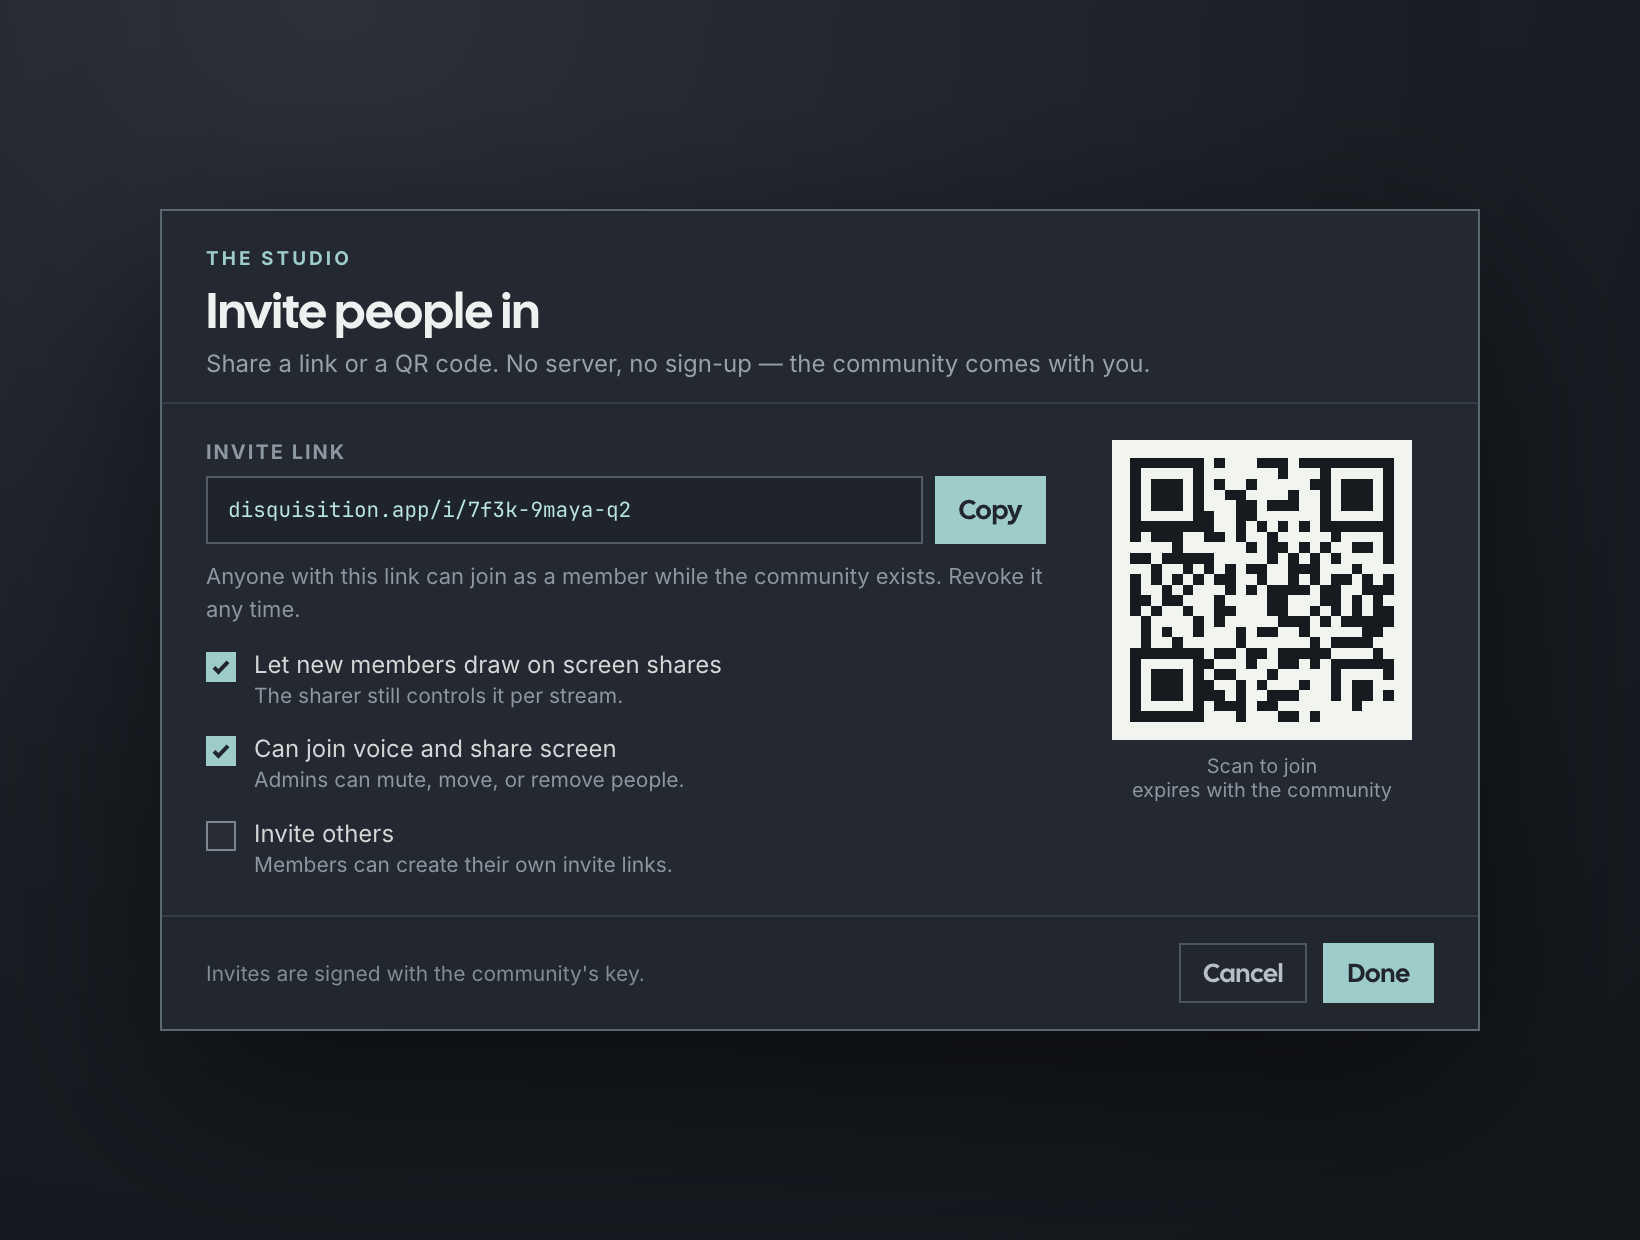
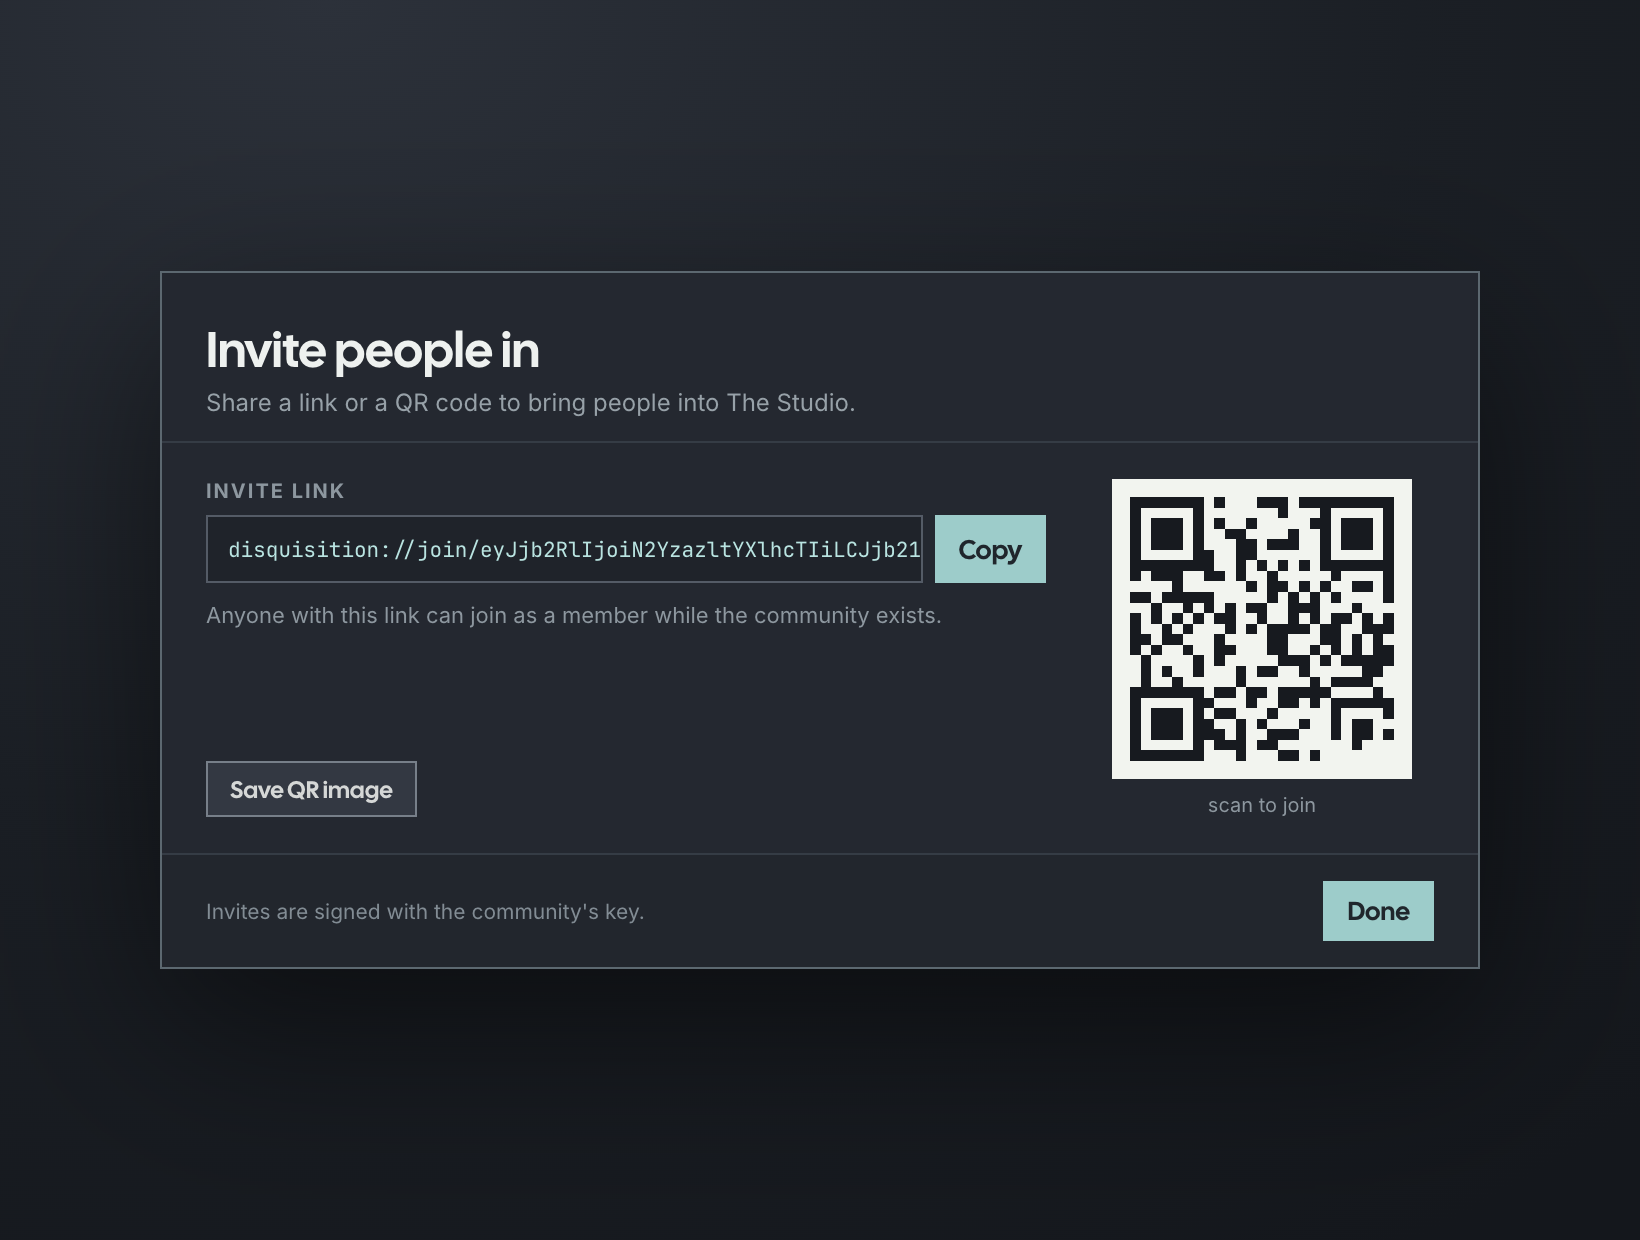
Match the site's app mockups to the shipped desktop app
The desktop redesign in #128 shipped a slightly different app from the
mockups. Show the connected top bar without the relay address, OWNER/ADMIN
tags with the app's presence labels, and the invite dialog without the
per-invite permission checkboxes the app does not have. Re-render the hero
and invite screenshots.

Changed region(s): [[0.1244, 0.1839, 0.8707, 0.7048], [0.1244, 0.7048, 0.9018, 0.8274]]

diff --git a/src/web/design/app-mockups.html b/src/web/design/app-mockups.html
@@ -416,11 +416,11 @@
   .member .info { min-width: 0; flex: 1; }
   .member .nn { font-size: 12px; color: #d7dcda; font-weight: 600; white-space: nowrap; display: flex; align-items: center; gap: 4px; }
   .member .role { font-size: 8px; text-transform: uppercase; letter-spacing: .06em; color: #20262c; background: #b9c3c7; padding: 1px 3px; font-weight: 800; }
-  .member .role.owner { background: var(--accent); }
-  .member .role.mod { background: #d9c58a; }
+  .member .role.owner { background: #a5dfdc; }
+  .member .role.admin { background: #f2d27a; }
   .member .sub { font-size: 10px; color: #7f8891; white-space: nowrap; display: flex; align-items: center; gap: 4px; margin-top: 1px; }
-  .member .sub.sharing { color: #ffb3b3; }
-  .member .sub.voice { color: #9dccca; }
+  .member .sub.sharing { color: #ec97b7; }
+  .member .sub.voice { color: #8fc7c2; }
   .member .state { color: #7b848d; display: flex; gap: 5px; }
   .member .state svg { width: 12px; height: 12px; }
 
@@ -463,7 +463,9 @@
   .dialog-header h2 { font-family: CalSans, sans-serif; font-weight: 400; font-size: 25px; color: #eef1ef; margin: 4px 0 3px; }
   .dialog-header p { margin: 0; font-size: 12px; color: #97a1a8; }
   .dialog-body { display: flex; gap: 22px; padding: 18px 22px; }
-  .dialog-body .left { flex: 1; min-width: 0; }
+  .dialog-body .left { flex: 1; min-width: 0; display: flex; flex-direction: column; align-items: flex-start; }
+  .dialog-body .left .linkrow { align-self: stretch; }
+  .save-qr { margin-top: auto; height: 28px; font-size: 12px; }
   .label { font-size: 10px; letter-spacing: .1em; text-transform: uppercase; color: #8d979f; font-weight: 700; margin-bottom: 6px; }
   .linkrow { display: flex; gap: 6px; }
   .linkrow .link {
@@ -474,16 +476,6 @@
   }
   .linkrow .btn { height: 34px; }
   .hint { font-size: 11px; color: #8d979f; margin-top: 8px; line-height: 1.5; }
-  .perm { display: flex; align-items: flex-start; gap: 9px; margin-top: 12px; }
-  .checkbox {
-    width: 15px; height: 15px; flex: 0 0 auto; margin-top: 1px;
-    border: 1px solid #7c8791; background: #282c34;
-    display: flex; align-items: center; justify-content: center;
-  }
-  .checkbox.on { background: var(--accent); border-color: var(--accent); color: #20262c; }
-  .checkbox svg { width: 10px; height: 10px; }
-  .perm .pt { font-size: 12px; color: #d3d8d6; }
-  .perm .ps { font-size: 10.5px; color: #8d979f; margin-top: 1px; line-height: 1.4; }
   .qr-wrap { flex: 0 0 172px; display: flex; flex-direction: column; align-items: center; gap: 7px; }
   .qr { width: 150px; height: 150px; background: #f2f4ef; padding: 9px; }
   .qr-grid { width: 100%; height: 100%; display: grid; grid-template-columns: repeat(25, 1fr); grid-template-rows: repeat(25, 1fr); }
@@ -519,10 +511,9 @@
     </div>
     <div class="connectbar">
       <div class="field">maya <span class="caret"></span></div>
-      <button class="btn primary">Connect</button>
-      <button class="btn ghost">User Settings</button>
+      <button class="btn">Disconnect</button>
       <div class="spacer"></div>
-      <div class="conn"><span class="dot"></span> Connected <span style="color:#4f5c60">·</span> relay.disquisition.app</div>
+      <div class="conn"><span class="dot"></span> Connected</div>
     </div>
     <div class="shell">
       <aside class="sidebar">
@@ -695,15 +686,15 @@
 
           <aside class="members">
             <div class="group">Online <span>— 6</span></div>
-            <div class="member"><span class="av maya">M</span><div class="info"><div class="nn">maya <span class="role owner">owner</span></div><div class="sub voice">in voice · hosting</div></div></div>
-            <div class="member"><span class="av june">J</span><div class="info"><div class="nn">june <span class="role mod">mod</span></div><div class="sub sharing">sharing screen · drawing</div></div></div>
-            <div class="member"><span class="av theo">T</span><div class="info"><div class="nn">theo</div><div class="sub voice">in voice</div></div><div class="state"><svg viewBox="0 0 12 12" fill="none" stroke="currentColor" stroke-width="1.3"><rect x="4" y="1" width="4" height="6" rx="2"/><path d="M2.5 5.5a3.5 3.5 0 007 0M6 9v2"/></svg></div></div>
-            <div class="member"><span class="av kofi">K</span><div class="info"><div class="nn">kofi</div><div class="sub voice">in voice</div></div></div>
-            <div class="member"><span class="av priya">P</span><div class="info"><div class="nn">priya</div><div class="sub">watching</div></div></div>
-            <div class="member"><span class="av sam">S</span><div class="info"><div class="nn">sam</div><div class="sub">watching</div></div></div>
+            <div class="member"><span class="av maya">M</span><div class="info"><div class="nn">maya <span class="role owner">owner</span></div><div class="sub voice">in voice · Lounge</div></div></div>
+            <div class="member"><span class="av june">J</span><div class="info"><div class="nn">june <span class="role admin">admin</span></div><div class="sub sharing">sharing screen</div></div></div>
+            <div class="member"><span class="av theo">T</span><div class="info"><div class="nn">theo</div><div class="sub voice">in voice · Lounge</div></div><div class="state"><svg viewBox="0 0 12 12" fill="none" stroke="currentColor" stroke-width="1.3"><rect x="4" y="1" width="4" height="6" rx="2"/><path d="M2.5 5.5a3.5 3.5 0 007 0M6 9v2"/></svg></div></div>
+            <div class="member"><span class="av kofi">K</span><div class="info"><div class="nn">kofi</div><div class="sub voice">in voice · Lounge</div></div></div>
+            <div class="member"><span class="av priya">P</span><div class="info"><div class="nn">priya</div><div class="sub">online</div></div></div>
+            <div class="member"><span class="av sam">S</span><div class="info"><div class="nn">sam</div><div class="sub">online</div></div></div>
             <div class="group" style="margin-top:12px;padding-top:10px;border-top:1px solid #353c45">Offline <span>— 2</span></div>
-            <div class="member"><span class="av noor">N</span><div class="info"><div class="nn" style="color:#8d959e">noor</div><div class="sub">last seen yesterday</div></div></div>
-            <div class="member"><span class="av" style="background:#3a4048;color:#8d959e">A</span><div class="info"><div class="nn" style="color:#8d959e">ari</div><div class="sub">last seen 3d ago</div></div></div>
+            <div class="member"><span class="av noor">N</span><div class="info"><div class="nn" style="color:#8d959e">noor</div><div class="sub">offline</div></div></div>
+            <div class="member"><span class="av" style="background:#3a4048;color:#8d959e">A</span><div class="info"><div class="nn" style="color:#8d959e">ari</div><div class="sub">offline</div></div></div>
           </aside>
         </div>
 
@@ -816,39 +807,26 @@
   <div class="modal-scene">
     <div class="dialog">
       <div class="dialog-header">
-        <div class="eyebrow">The Studio</div>
         <h2>Invite people in</h2>
-        <p>Share a link or a QR code. No server, no sign-up — the community comes with you.</p>
+        <p>Share a link or a QR code to bring people into The Studio.</p>
       </div>
       <div class="dialog-body">
         <div class="left">
           <div class="label">Invite link</div>
           <div class="linkrow">
-            <div class="link">disquisition.app/i/7f3k-9maya-q2</div>
+            <div class="link">disquisition://join/eyJjb2RlIjoiN2YzazltYXlhcTIiLCJjb21tdW5pdHkiOiJzdHVkaW8i</div>
             <button class="btn primary">Copy</button>
           </div>
-          <div class="hint">Anyone with this link can join as a member while the community exists. Revoke it any time.</div>
-          <div class="perm">
-            <span class="checkbox on"><svg viewBox="0 0 10 10" fill="none" stroke="currentColor" stroke-width="2"><path d="M1.5 5.2l2.2 2.2 4.8-5"/></svg></span>
-            <div><div class="pt">Let new members draw on screen shares</div><div class="ps">The sharer still controls it per stream.</div></div>
-          </div>
-          <div class="perm">
-            <span class="checkbox on"><svg viewBox="0 0 10 10" fill="none" stroke="currentColor" stroke-width="2"><path d="M1.5 5.2l2.2 2.2 4.8-5"/></svg></span>
-            <div><div class="pt">Can join voice and share screen</div><div class="ps">Admins can mute, move, or remove people.</div></div>
-          </div>
-          <div class="perm">
-            <span class="checkbox"></span>
-            <div><div class="pt">Invite others</div><div class="ps">Members can create their own invite links.</div></div>
-          </div>
+          <div class="hint">Anyone with this link can join as a member while the community exists.</div>
+          <button class="btn save-qr">Save QR image</button>
         </div>
         <div class="qr-wrap">
           <div class="qr"><div class="qr-grid" id="qr"></div></div>
-          <div class="qs">Scan to join<br>expires with the community</div>
+          <div class="qs">scan to join</div>
         </div>
       </div>
       <div class="dialog-footer">
         <div class="note">Invites are signed with the community's key.</div>
-        <button class="btn ghost">Cancel</button>
         <button class="btn primary">Done</button>
       </div>
     </div>
